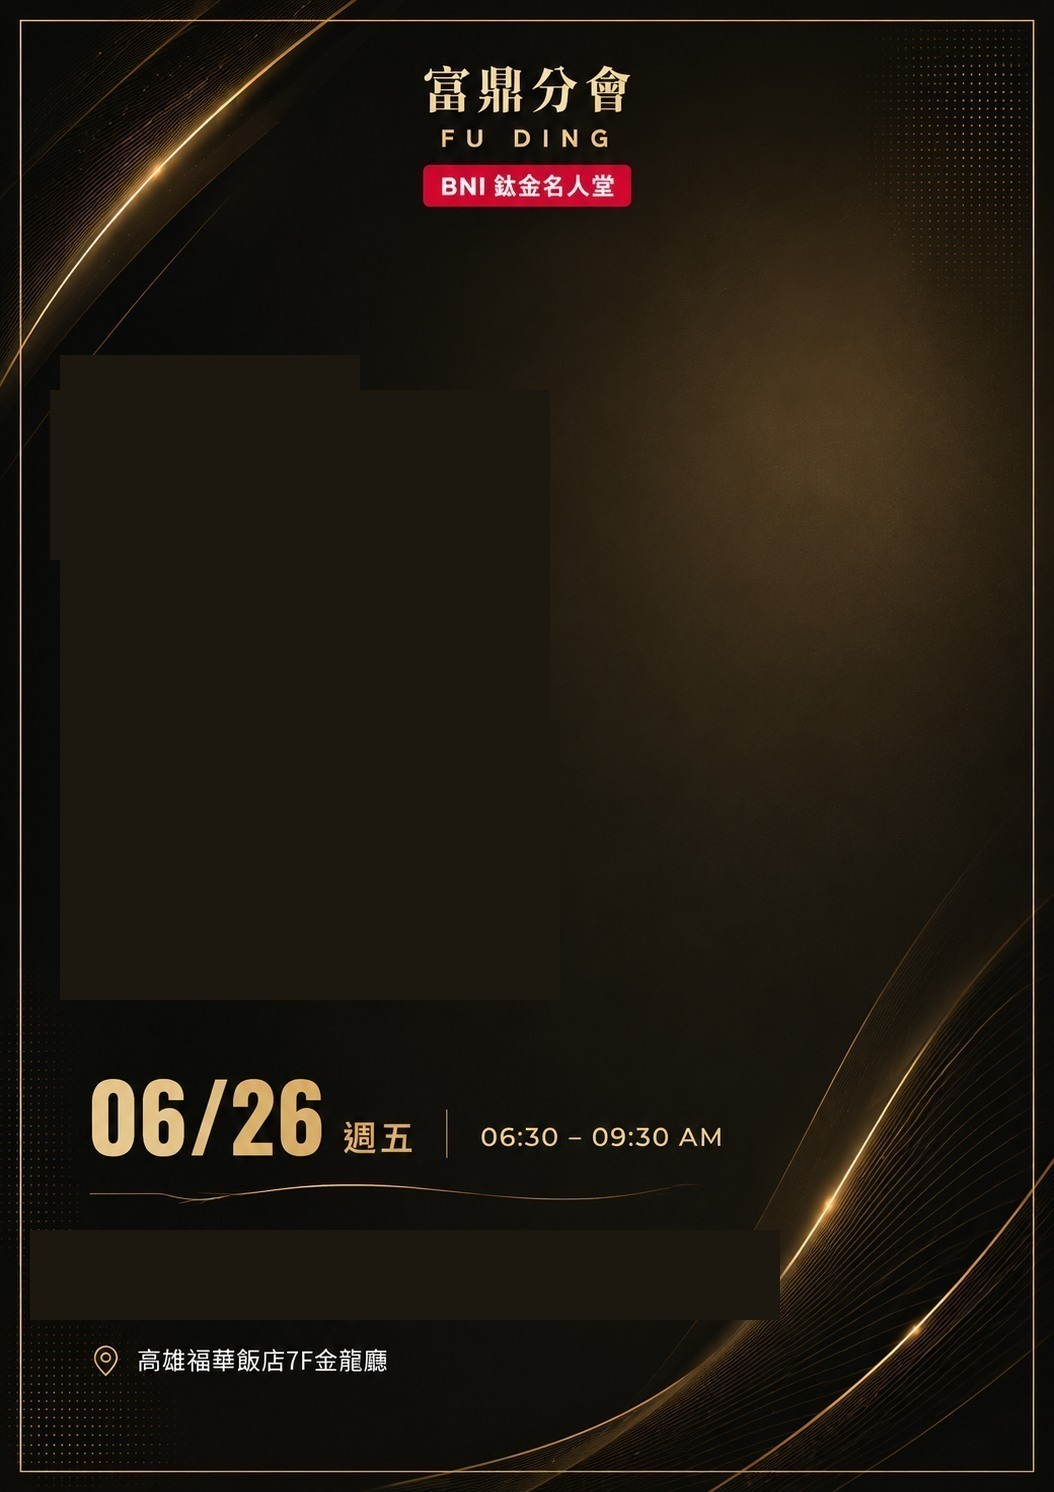
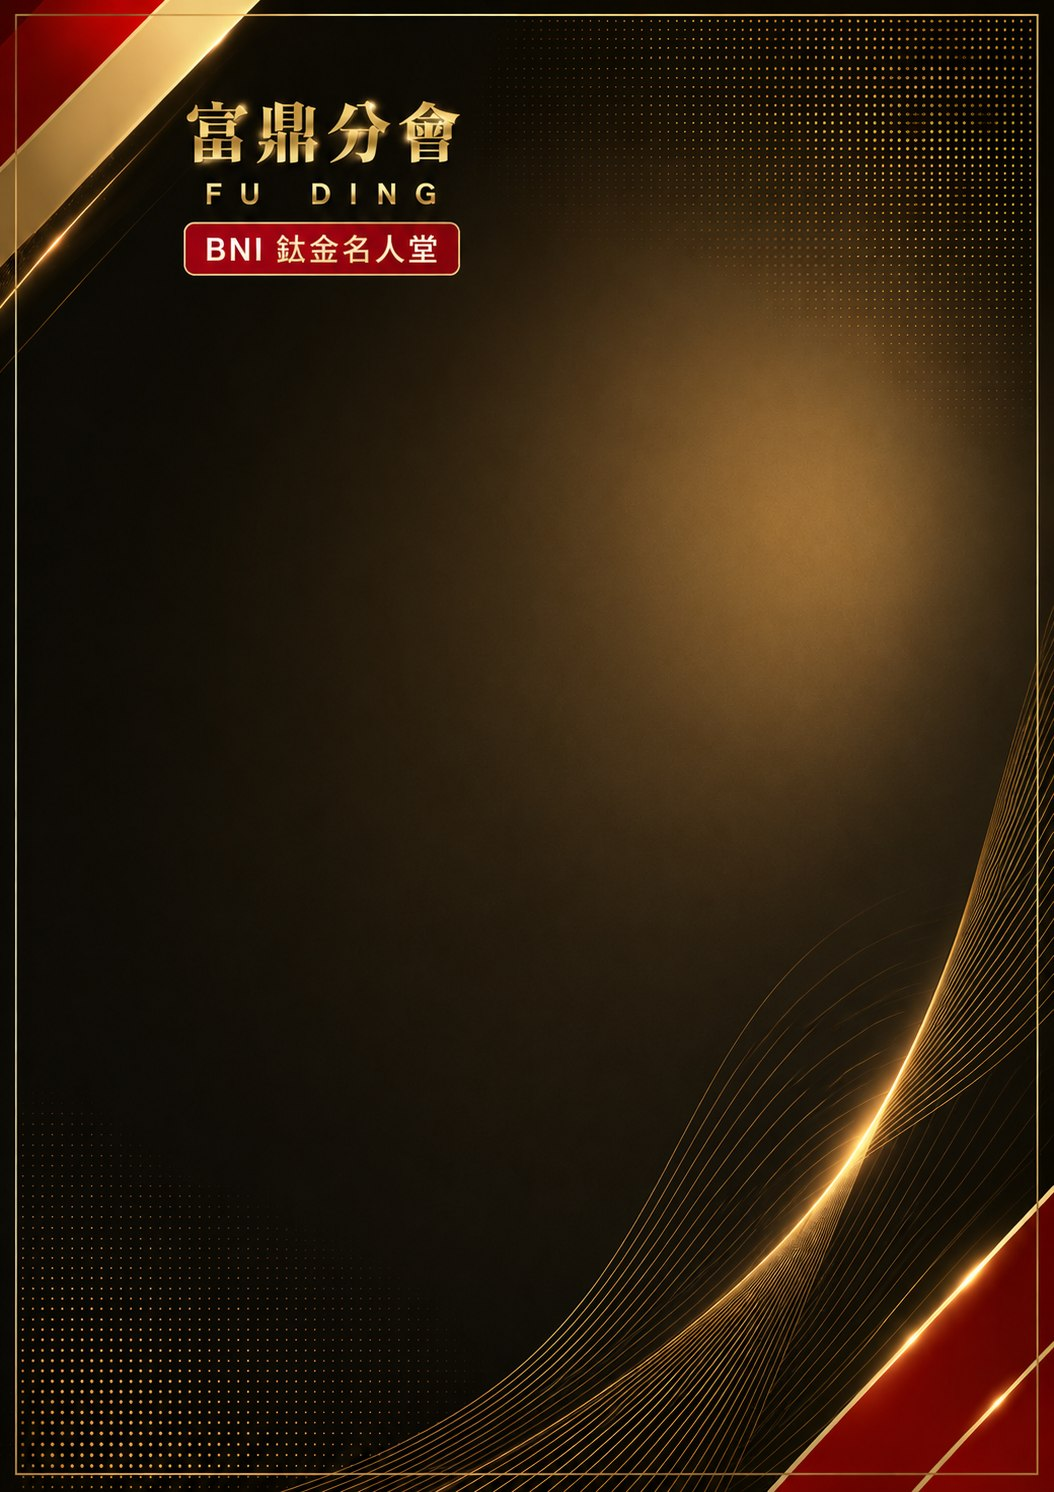
6 主題 EDM 母片替換為全新乾淨版（無 baked 文字/日期/注意事項）
用戶重新提供 6 張全新乾淨母片（僅含品牌標頭+裝飾圖案，
無 baked 人物/姓名/專業別/日期/注意事項），直接套用不做任何擦除。

對應：
- 10_10_14 → red（紅金/誠信名人堂）
- 10_19_44 → black（黑金/鈦金名人堂）
- 10_19_56 → ai（科技深藍/鈦金名人堂）
- 10_21_00 → green（自然綠/鈦金名人堂）
- 10_22_15 → minimal（奶茶金/鈦金名人堂）
- 10_24_55 → blue（深藍白/鈦金名人堂+底部 baked 注意事項）

diff --git a/index.html b/index.html
@@ -1184,7 +1184,7 @@
       <section class="help-panel" data-hpanel="admin" style="display:none;">
         <h3>管理者權限</h3>
         <p class="hp">管理者可執行會員無法做的操作：新增／刪除會員、產生組別密碼、調整例會出場順序、插入產業鏈分隔頁、下載整份例會 PPT。</p>
-        <div class="hnote"><b>登入方式</b>：點右上「🔑 登入」→ 輸入 <code>A</code> 即可進入管理者模式；輸入數字則是組別登入密碼。</div>
+        <div class="hnote"><b>登入方式</b>：點右上「🔑 登入」→ 輸入 <code>A</code> → 再輸入管理者密碼；輸入其他數字則是組別登入密碼。</div>
 
         <h3>組別密碼管理</h3>
         <ol class="hsteps">
@@ -1239,7 +1239,7 @@
         <dl class="hkv">
           <dt>會員存不進去</dt><dd>檢查該會員照片是否超過 1MB。用去背 PNG 通常可壓到 300–600KB。</dd>
           <dt>PPT 產生失敗</dt><dd>通常是某位會員照片太大導致渲染逾時。定位到問題會員後縮小照片再試。</dd>
-          <dt>管理者登入</dt><dd>輸入 <code>A</code> 即可進入管理者模式，不需要另外設定管理者密碼。</dd>
+          <dt>管理者登入</dt><dd>先輸入 <code>A</code>，再輸入管理者密碼。前台不開放設定新管理者密碼。</dd>
           <dt>版型不見了</dt><dd>檢查瀏覽器快取。Ctrl + Shift + R 強制重整，或用無痕視窗打開。</dd>
         </dl>
       </section>
@@ -1259,7 +1259,7 @@
 <script src="divider-bg.js?v=58"></script>
 <script src="edm-masters.js?v=62"></script>
 <script src="hero-bg.js?v=58"></script>
-<script src="app.js?v=83"></script>
+<script src="app.js?v=84"></script>
 <script src="roster.js?v=62"></script>
 </body>
 </html>

diff --git a/app.js b/app.js
@@ -312,6 +312,12 @@ async function saveEditorToRoster(){
 /* ============ 權限：管理者 / 會員登入 ============ */
 let isAdmin = false;
 let ownerMemberId = null;
[1 lines of base64/hex data omitted]
+async function sha256Hex(text){
+  const bytes = new TextEncoder().encode(text);
+  const hash = await crypto.subtle.digest('SHA-256', bytes);
+  return [...new Uint8Array(hash)].map(b => b.toString(16).padStart(2, '0')).join('');
+}
 function genPw(){ return String(1000 + Math.floor(Math.random() * 9000)); }
 function groupPasswordFor(m){
   const chain = m && m.industryChain ? String(m.industryChain) : '';
@@ -340,6 +346,12 @@ function refreshEditorChoices(){
 }
 
 async function unlockAdmin(){
+  const p = prompt('請輸入管理者密碼：');
+  if (p == null) return;
+  if (await sha256Hex(p.trim()) !== ADMIN_PASSWORD_HASH){
+    alert('管理者密碼錯誤');
+    return;
+  }
   isAdmin = true;
   ownerMemberId = null;
   refreshEditorChoices();
